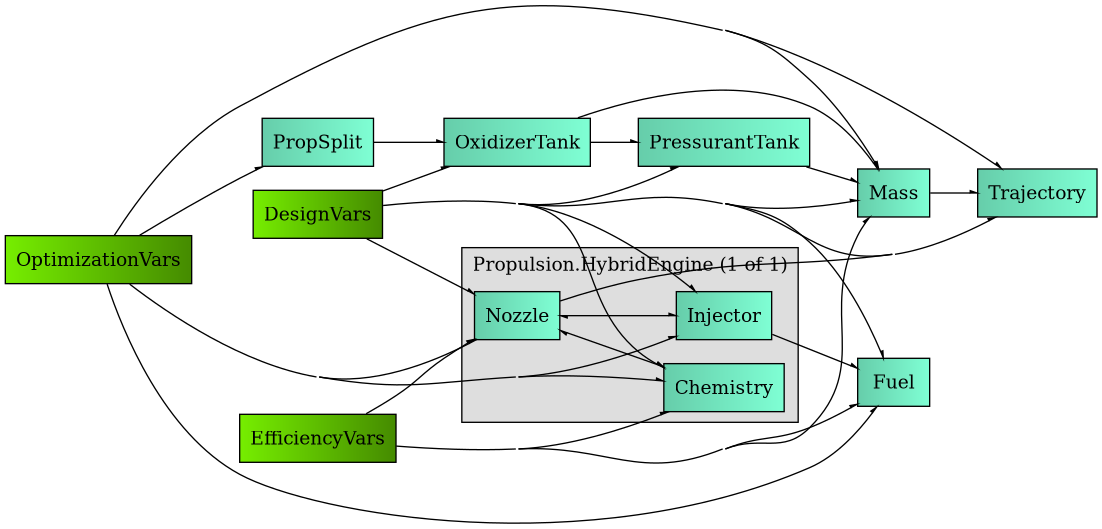
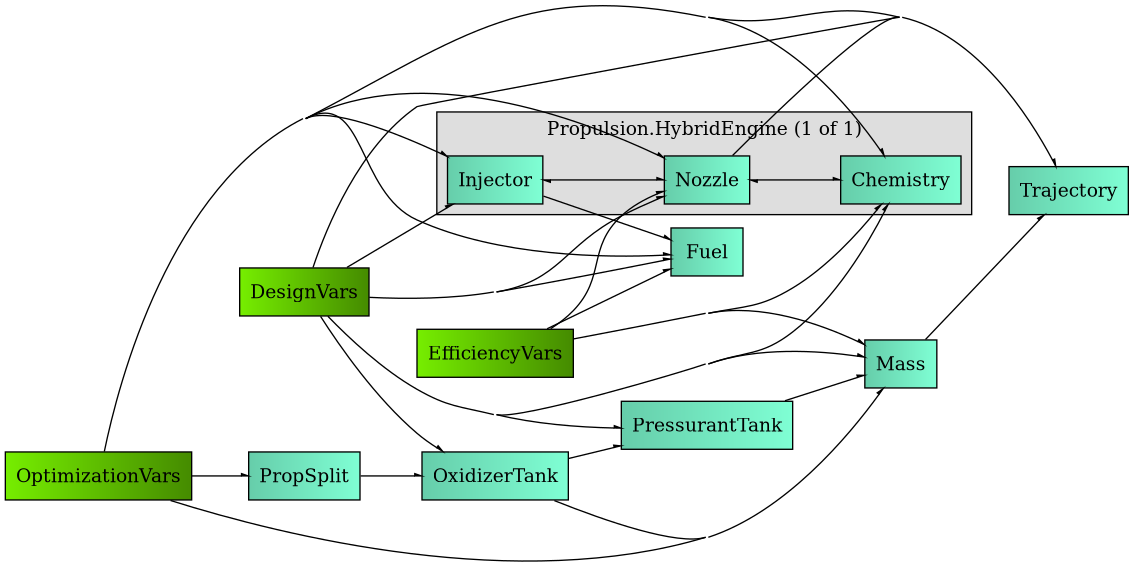
Consistent ullage calculations
Offloaded tank ullage calculations to small helper functions

diff --git a/modules/BEARS_Thermo/pressurant_thermo.py b/modules/BEARS_Thermo/pressurant_thermo.py
@@ -5,6 +5,7 @@ from typing      import Protocol, runtime_checkable
 import numpy as np
 
 from ..BEARS_Materials import Gas
+from ..BEARS_Vessels   import ullage_volume
 #endregion
 
 #region Blowdown results
@@ -52,7 +53,8 @@ class IdealGasBlowdown:
 		self, gas: Gas, p_bottle, p_ox, p_margin, p_sat, t0, v_ox, u_frac,
 	) -> BlowdownResult:
 		r, g = gas.r_specific, gas.gamma
-		m_pad = _pos_pad(p_ox, p_sat) * (u_frac * v_ox) / (r * t0)
+		v_u0 = ullage_volume(v_ox, u_frac)
+		m_pad = _pos_pad(p_ox, p_sat) * v_u0 / (r * t0)
 		pr = (p_ox + p_margin) / p_bottle
 		f_del = 1.0 - pr ** (1.0 / g)
 		t_mean = (t0 / g) * (1.0 - pr) / f_del
@@ -77,7 +79,7 @@ class CoolPropBlowdown:
 		from scipy.optimize    import brentq
 
 		fl = gas.coolprop_name or gas.name
-		t0_f, p_b_f = float(t0), float(p_bottle)
+		t0_f,   p_b_f  = float(t0), float(p_bottle)
 		p_ox_f, v_ox_f = float(p_ox), float(v_ox)
 		p_end = p_ox_f + float(p_margin)
 
@@ -90,7 +92,7 @@ class CoolPropBlowdown:
 		h_in  = float(np.sum(0.5 * (hs[:-1] + hs[1:]) * dm) / np.sum(dm))
 		f_del = float(1.0 - rhos[-1] / rho0)
 
-		v_u0 = float(u_frac) * v_ox_f
+		v_u0 = ullage_volume(v_ox_f, u_frac)
 		v_u1 = v_u0 + v_ox_f
 		rho1 = PropsSI("D", "T", t0_f, "P", p_ox_f, fl)
 		u1   = PropsSI("U", "T", t0_f, "P", p_ox_f, fl)

diff --git a/modules/BEARS_Rocket/comp_tank.py b/modules/BEARS_Rocket/comp_tank.py
@@ -11,6 +11,7 @@ from ..BEARS_Vessels   import (
 	DomeGeometry,
 	IsotensoidDome,
 	SphericalDome,
+	tank_internal_volume,
 )
 # endregion
 
@@ -96,16 +97,16 @@ class TankComponent(ExplicitComponent):
 		dome = self.options["dome_geometry"]
 		if dome is None: dome = IsotensoidDome()
 
-		r_out = d_out / 2.0
-		ts = wall.size_layers(p_max, r_out, sf, r_boss=r_boss)
+		r_out  = d_out / 2.0
+		ts     = wall.size_layers(p_max, r_out, sf, r_boss=r_boss)
 		t_wall = sum(ts)
 
 		r_in = r_out - t_wall
 
 		# Volumes and lengths
 		v_fluid = m_fluid / rho_f
-		v_int = v_fluid / (1.0 - uf)
-		v_caps = dome.internal_volume(r_in, r_boss=r_boss)
+		v_int   = tank_internal_volume(v_fluid, uf)
+		v_caps  = dome.internal_volume(r_in, r_boss=r_boss)
 
 		diff_v = v_int - v_caps
 		if np.iscomplexobj(diff_v):
@@ -113,10 +114,10 @@ class TankComponent(ExplicitComponent):
 		else:
 			v_cyl = max(0.0, diff_v)
 
-		a_int = pi * r_in**2
-		l_cyl = v_cyl / a_int
+		a_int  = pi * r_in**2
+		l_cyl  = v_cyl / a_int
 		l_caps = dome.total_length(r_in, r_boss=r_boss)
-		l_tot = l_cyl + l_caps + bfwd + baft
+		l_tot  = l_cyl + l_caps + bfwd + baft
 
 		m_dry, masses = wall.compute_masses(
 			ts, r_in, l_cyl, dome=dome, r_boss=r_boss,

diff --git a/modules/BEARS_Vessels/volumes.py b/modules/BEARS_Vessels/volumes.py
@@ -1,0 +1,25 @@
+#region Imports
+import numpy as np
+#endregion
+
+#region Helpers
+def _check_ullage_fraction(ullage_frac: float | complex) -> None:
+	u_val = ullage_frac.real if np.iscomplexobj(ullage_frac) else ullage_frac
+	if u_val < 0.0 or u_val >= 1.0:
+		raise ValueError(f"Ullage fraction must be i [0, 1), got {u_val}")
+
+def tank_internal_volume(
+	v_fluid     : float | complex,
+	ullage_frac : float | complex,
+) -> float | complex:
+	"""Total internal tank volume for tank-volume ullage fraction `u`"""
+	_check_ullage_fraction(ullage_frac)
+	return v_fluid / (1.0 - ullage_frac)
+
+def ullage_volume(
+	v_fluid     : float | complex,
+	ullage_frac : float | complex,
+) -> float | complex:
+	"""Initial ullage volume matching `V_ullage = u * V_tank`"""
+	return ullage_frac * tank_internal_volume(v_fluid, ullage_frac)
+#endregion

diff --git a/modules/BEARS_Vessels/__init__.py b/modules/BEARS_Vessels/__init__.py
@@ -4,6 +4,11 @@ from .dome import (
 	SphericalDome,
 )
 
+from .volumes import (
+	tank_internal_volume,
+	ullage_volume,
+)
+
 from .netting import (
 	clairaut_angle_trig,
 	size_composite_layer,
